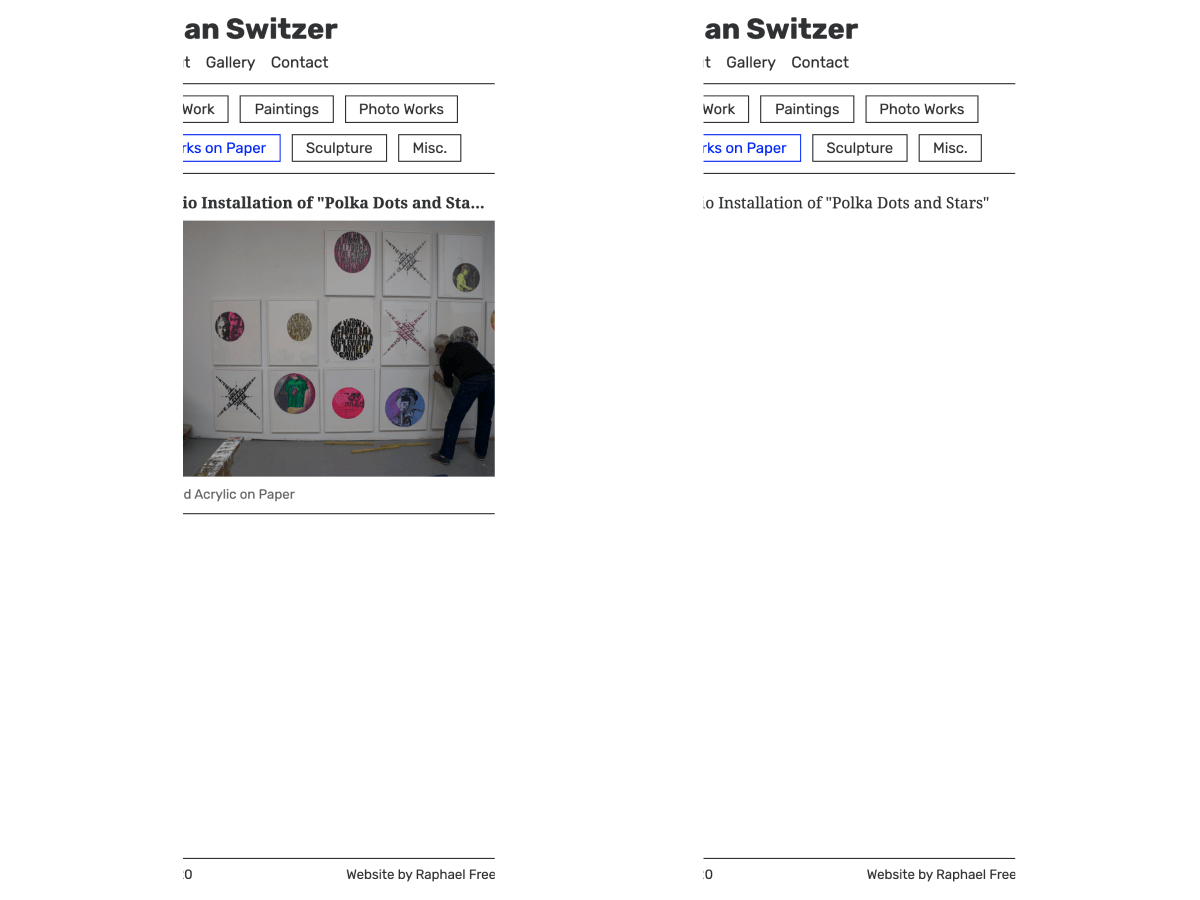
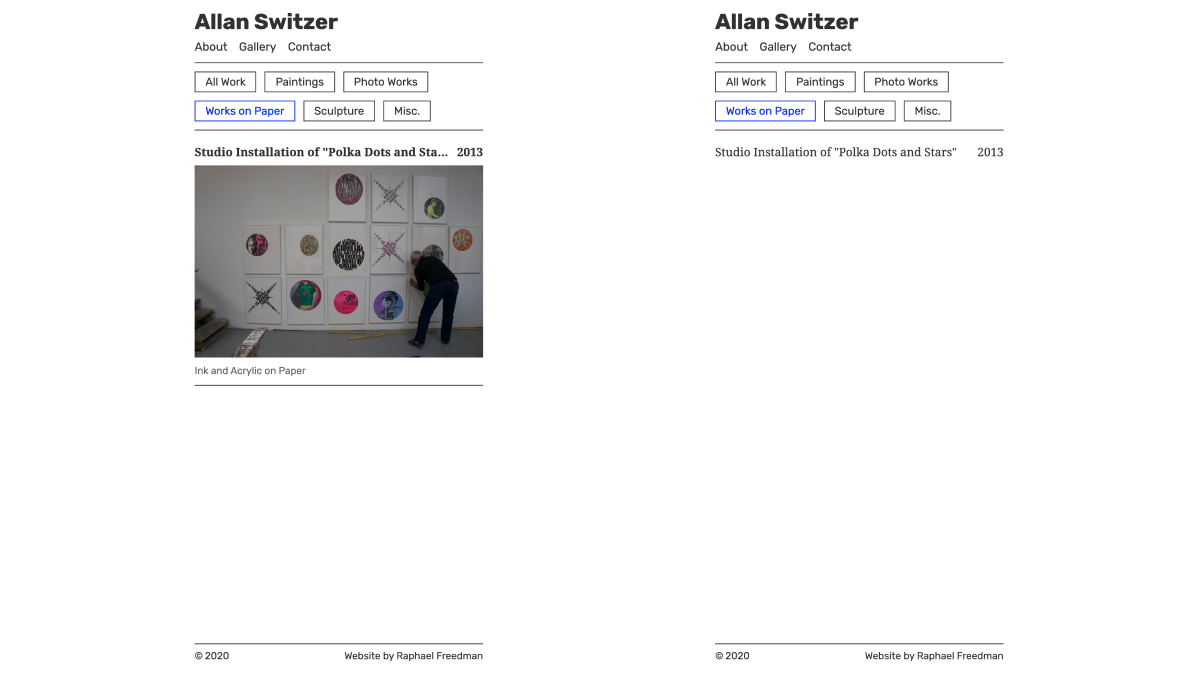
periodic commit

diff --git a/index.html b/index.html
@@ -55,11 +55,26 @@
     <div class="selected-projects">
       <h1>Selected Projects</h1>
       <nav>
-        <a href="#lanprop">Website for a Property Development Company</a>
-        <a href="#ergas">Website for a Private Equity Firm</a>
-        <a href="#bravo">Website for a Math Tutor</a>
-        <a href="#upstage">e-Commerce Beat Marketplace</a>
-        <a href="#switzer">Website for an Artist</a>
+        <a href="#lanprop">
+          <h2>Website for a Property Development Company</h2>
+          <small>lanprop.com</small>
+        </a>
+        <a href="#ergas">
+          <h2>Website for a Private Equity Firm</h2>
+          <small>ergas.group</small>
+        </a>
+        <a href="#bravo">
+          <h2>Website for a Math Tutor</h2>
+          <small>bravomath.com</small>
+        </a>
+        <a href="#upstage">
+          <h2>e-Commerce Beat Marketplace</h2>
+          <small>upstagebeats.com</small>
+        </a>
+        <a href="#switzer">
+          <h2>Website for an Artist</h2>
+          <small>allanswitzer.com</small>
+        </a>
       </nav>
     </div>
 
@@ -80,7 +95,7 @@
     <section class="project" id="lanprop">
       <span>
         <h1>Website for a Property Development Company</h1>
-        <a href="https://lanprop.com" target="_blank" rel="noreferrer">lanprop.com</a>
+        <a href="https://lanprop.com" target="_blank" rel="noreferrer"><small>lanprop.com</small></a>
       </span>
       <div>
         <img loading="lazy" alt="Raphael Freedman Portfolio" src="/images/000.png">
@@ -93,7 +108,7 @@
     <section class="project" id="ergas">
       <span>
         <h1>Website for a Private Equity Firm</h1>
-        <a href="https://ergas.group" target="_blank" rel="noreferrer">ergas.group</a>
+        <a href="https://ergas.group" target="_blank" rel="noreferrer"><small>ergas.group</small></a>
       </span>
       <div>
         <img loading="lazy" alt="Raphael Freedman Portfolio" src="/images/000.png">
@@ -106,7 +121,7 @@
     <section class="project" id="bravo">
       <span>
         <h1>Website for a Math Tutor</h1>
-        <a href="https://bravomath.com" target="_blank" rel="noreferrer">bravomath.com</a>
+        <a href="https://bravomath.com" target="_blank" rel="noreferrer"><small>bravomath.com</small></a>
       </span>
       <div>
         <img loading="lazy" alt="Raphael Freedman Portfolio" src="/images/500.png">
@@ -119,7 +134,7 @@
     <section class="project" id="upstage">
       <span>
         <h1>e-Commerce Beat Marketplace</h1>
-        <a href="https://upstagebeats.com" target="_blank" rel="noreferrer">upstagebeats.com</a>
+        <a href="https://upstagebeats.com" target="_blank" rel="noreferrer"><small>upstagebeats.com</small></a>
       </span>
       <div>
         <img loading="lazy" alt="Raphael Freedman Portfolio" src="/images/000.png">
@@ -132,7 +147,7 @@
     <section class="project" id="switzer">
       <span>
         <h1>Website for an Artist</h1>
-        <a href="https://allanswitzer.com" target="_blank" rel="noreferrer">allanswitzer.com</a>
+        <a href="https://allanswitzer.com" target="_blank" rel="noreferrer"><small>allanswitzer.com</small></a>
       </span>
       <div>
         <img loading="lazy" alt="Raphael Freedman Portfolio" src="/images/900.png">

diff --git a/style.css b/style.css
@@ -42,17 +42,15 @@ nav {
   flex-direction: column;
 }
 nav a {
-  width: auto;
-  white-space: nowrap;
-  overflow: hidden;
-  text-overflow: ellipsis;
+  display: flex;
+  justify-content: space-between;
+  align-items: baseline;
+  border-top: 1px solid;
   margin: 0;
   padding: 6px 0px;
-  border-top: 1px solid;
-  border-radius: 0;
   transition: .15s ease-in-out;
-  transition-property: padding-left, background-color;
-
+  transition-property: padding-left, padding-right, background-color;
+  cursor: pointer;
 }
 
 nav a:last-of-type {
@@ -63,7 +61,7 @@ nav a:hover,
 nav a.selected {
   background-color: #A3B2C1;
   border-color: black;
-  padding-left: 10px;
+  padding-left: 8px;
 }
 
 aside {
@@ -101,12 +99,8 @@ aside section span {
   margin-top: 0px;
   margin-bottom: 4px;
 }
-aside section span a {
-  font-family: 'DM Sans', sans-serif;
-  font-size: 11px;
-  letter-spacing: .025em;
+aside section span small {
   padding-left: 20px;
-  font-weight: 400;
 }
 aside section div {
   display: grid;
@@ -142,6 +136,7 @@ img.animate {
   background: #353839;
 }
 h1,
+h2,
 p,
 a {
   padding: 0;
@@ -162,13 +157,12 @@ h1 {
   margin-bottom: .25em;
   letter-spacing: .022em;
 }
-footer small {
+small {
   font-family: 'DM Sans', sans-serif;
   font-weight: 400;
   font-size: 11px;
   letter-spacing: .022em;
 }
-
 p {
   margin-bottom: 12px;
 }
